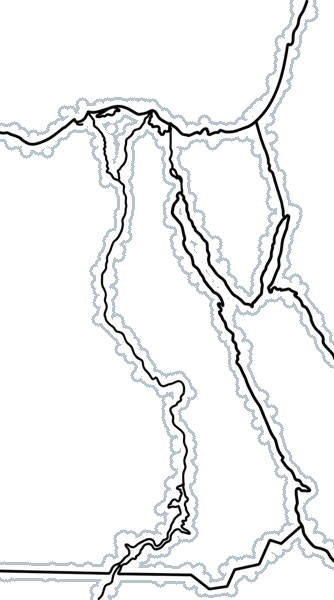
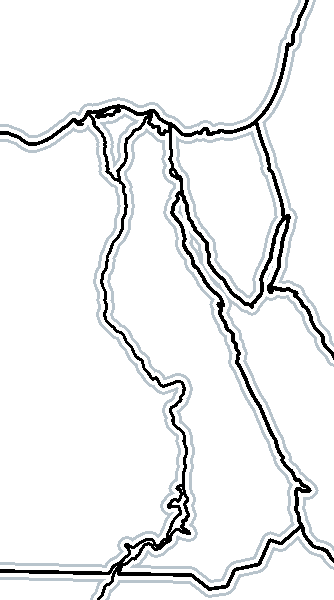
Bolden map-sinai/map-aqaba line art to solid black for white background
The coastline line art was already black, but thin and heavily
anti-aliased — roughly half of its pixels were partial alpha rather than
solid core — so next to the much wider silver stroke halo it read as
pale/washed out once displayed at scale, especially against white.

Adds a --solid-fill option to halftone_stroke.py that binarizes alpha
and flattens the opaque region to one solid color before computing the
stroke ring, then re-runs it for just these two assets (solid black,
same silver stroke, same silhouette/offset as before). The other 5
assets are untouched.

Changed region(s): [[0.0, 0.0, 1.0, 1.0]]

diff --git a/src/shared/halftone_stroke.py b/src/shared/halftone_stroke.py
@@ -81,6 +81,25 @@ def halftone_dots(rgba: Image.Image, cell_size: int = DEFAULT_CELL_SIZE) -> Imag
     return Image.fromarray(out_arr, mode="RGBA")
 
 
+def solid_fill(rgba: Image.Image, color, alpha_threshold: int = 30) -> Image.Image:
+    """Rebuild the opaque region as a fully-opaque flat `color` silhouette.
+
+    Thin line-art cutouts (e.g. a coastline drawing) are mostly soft
+    anti-aliased edge rather than solid core pixels, which reads as washed-
+    out/pale once displayed at a larger size next to a much wider stroke
+    ring. Binarizing alpha at `alpha_threshold` and flattening every opaque
+    pixel to one solid color turns the line bold and crisp without touching
+    its silhouette shape (so the stroke ring computed from this image lines
+    up exactly where the original line was)."""
+    alpha_arr = np.array(rgba.split()[-1])
+    mask = alpha_arr > alpha_threshold
+
+    w, h = rgba.size
+    out_arr = np.zeros((h, w, 4), dtype=np.uint8)
+    out_arr[mask] = color
+    return Image.fromarray(out_arr, mode="RGBA")
+
+
 def offset_stroke_ring(
     rgba: Image.Image,
     offset: int = DEFAULT_STROKE_OFFSET,
@@ -111,8 +130,12 @@ def process_image(
     stroke_width: int = DEFAULT_STROKE_WIDTH,
     stroke_color=CYAN,
     apply_halftone: bool = True,
+    solid_fill_color=None,
+    solid_fill_alpha_threshold: int = 30,
 ) -> None:
     rgba = Image.open(src_path).convert("RGBA")
+    if solid_fill_color is not None:
+        rgba = solid_fill(rgba, solid_fill_color, alpha_threshold=solid_fill_alpha_threshold)
 
     ring = offset_stroke_ring(rgba, offset=stroke_offset, width=stroke_width, color=stroke_color)
     foreground = halftone_dots(rgba, cell_size=cell_size) if apply_halftone else rgba
@@ -142,8 +165,25 @@ def main() -> int:
         default="cyan",
         help="Color of the offset stroke ring",
     )
+    parser.add_argument(
+        "--solid-fill",
+        type=str,
+        default=None,
+        help="Hex color (e.g. 000000) to flatten thin/anti-aliased line art to before stroking, "
+        "so the line itself reads bold/solid instead of washed out",
+    )
+    parser.add_argument(
+        "--solid-fill-alpha-threshold",
+        type=int,
+        default=30,
+        help="Alpha cutoff (0-255) used to binarize the silhouette when --solid-fill is set",
+    )
     args = parser.parse_args()
     stroke_color = STROKE_COLOR_PRESETS[args.stroke_color]
+    solid_fill_color = None
+    if args.solid_fill:
+        hex_color = args.solid_fill.lstrip("#")
+        solid_fill_color = (*(int(hex_color[i : i + 2], 16) for i in (0, 2, 4)), 255)
 
     args.output_dir.mkdir(parents=True, exist_ok=True)
 
@@ -160,6 +200,8 @@ def main() -> int:
                 stroke_width=args.stroke_width,
                 stroke_color=stroke_color,
                 apply_halftone=not args.no_halftone,
+                solid_fill_color=solid_fill_color,
+                solid_fill_alpha_threshold=args.solid_fill_alpha_threshold,
             )
             results.append((name, "ok", dst))
         except Exception as exc:  # noqa: BLE001